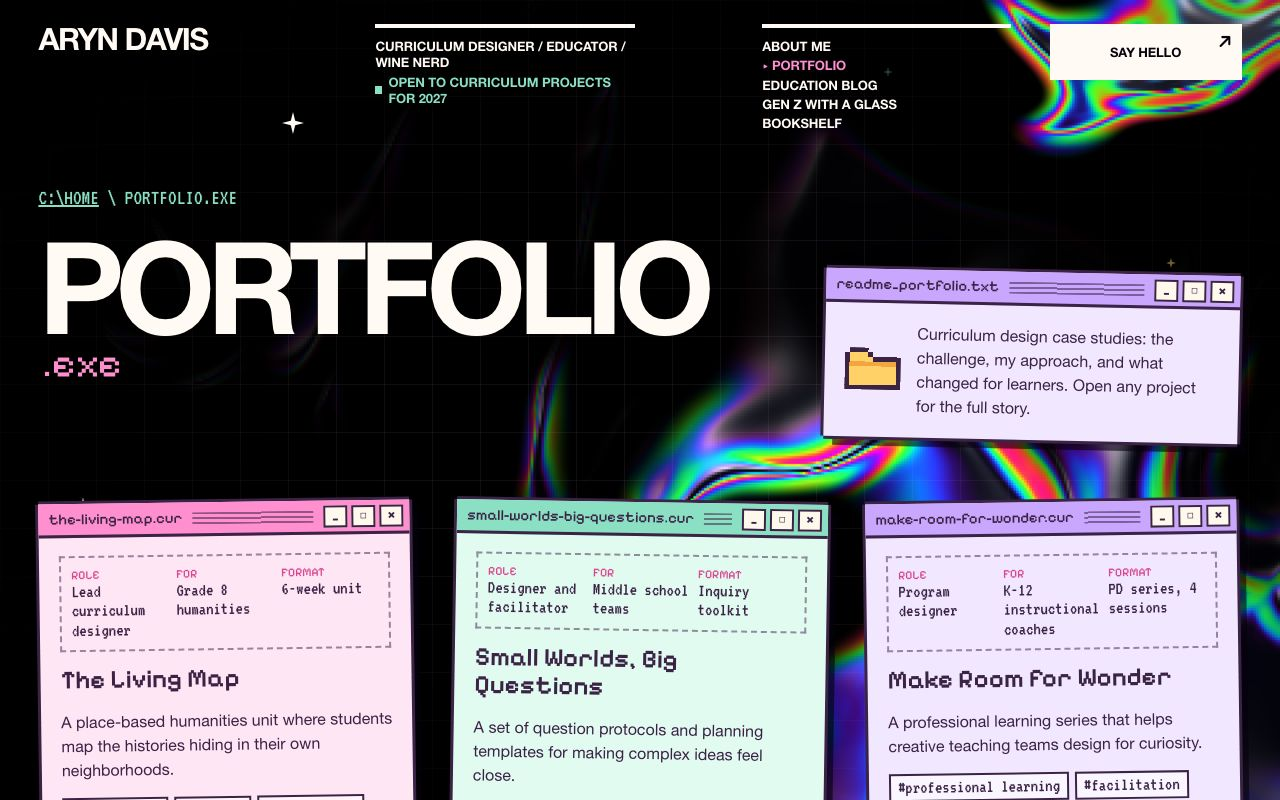
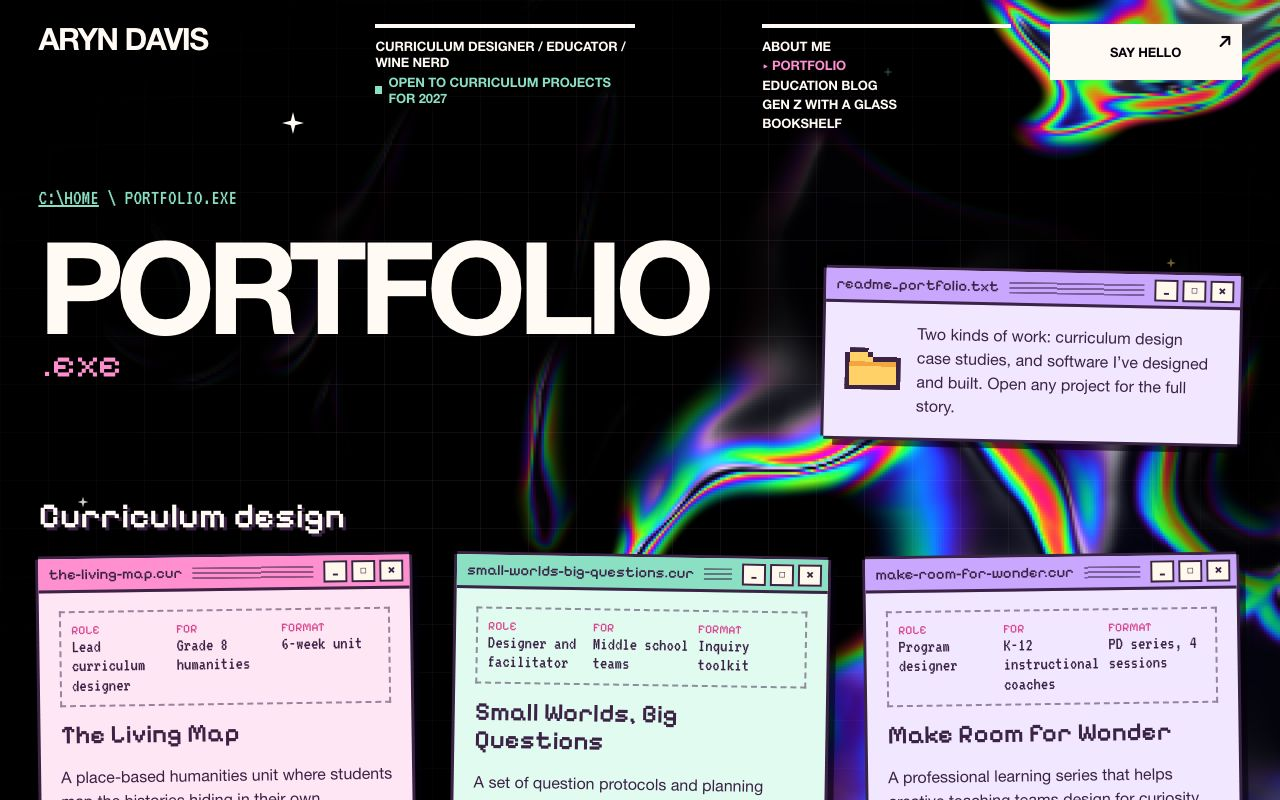
Split the portfolio into curriculum design and software engineering
- Projects get a track; the Portfolio page shows each under its own
  heading.
- Software engineering: Aryn's Library and Aryn's Closet, with
  screenshots on their cards, write-ups, and buttons for the live app
  and the code.
- Retake the home and portfolio README screenshots.

diff --git a/src/content/portfolio.ts b/src/content/portfolio.ts
@@ -1,9 +1,100 @@
 import type { Project } from './types'
 
-// Sample projects. Replace these with your own case studies.
+// Two tracks: 'curriculum' (case studies) and 'software' (apps I've built).
+// The curriculum projects are still samples. Replace them with your own case studies.
 export const projects: Project[] = [
   {
+    slug: 'aryns-library',
+    track: 'software',
+    title: 'Aryn’s Library',
+    date: '2026-10-20',
+    role: 'Design & engineering',
+    audience: 'My own bookshelf, public to browse',
+    format: 'React + Supabase web app',
+    summary: 'A pixel-art card catalog for my physical books, with lending, rubber-stamp check-outs, and a public read-only view.',
+    tags: ['React', 'TypeScript', 'Supabase', 'Postgres'],
+    cover: { src: 'images/portfolio/library-catalog.jpg', alt: 'Aryn’s Library card catalog: pixel book covers on a shelf with search and filters.' },
+    links: [
+      { label: 'Open the library ↗', href: 'https://library.arynlynn.com' },
+      { label: 'Code on GitHub ↗', href: 'https://github.com/aryndavis/bookshelf' },
+    ],
+    body: [
+      { type: 'h', text: 'What it is' },
+      {
+        type: 'p',
+        text: 'A cozy catalog of every book I own, which ones I’ve lent out, who has them, and for how long. Anyone can browse the shelves; only I can add books or lend them.',
+      },
+      { type: 'image', src: 'images/portfolio/library-checked-out.jpg', alt: 'A checked-out book with a CHECKED OUT rubber stamp and an old-school date-due card.' },
+      { type: 'h', text: 'Features' },
+      {
+        type: 'list',
+        items: [
+          'Card catalog with search, filters (on the shelf, checked out, overdue) and sorting',
+          'Add a book by ISBN: title, author and year fill in from Open Library',
+          'Lending with due dates: a rubber stamp animates onto the cover, and a pocket library card keeps the history',
+          '“Who has what” page grouping open loans by borrower, overdue first',
+          'CSV and JSON backups',
+        ],
+      },
+      { type: 'h', text: 'How it’s built' },
+      {
+        type: 'list',
+        items: [
+          'React 19, TypeScript and Vite, hosted on Netlify',
+          'Supabase (Postgres + auth) with Row Level Security on every table',
+          'Public view: visitors can read books and see that a book is out, but borrower names and contact details never leave the database',
+          'Strict Content Security Policy, no third-party scripts, and a demo mode that runs entirely in the browser',
+        ],
+      },
+    ],
+  },
+  {
+    slug: 'aryns-closet',
+    track: 'software',
+    title: 'Aryn’s Closet',
+    date: '2026-10-19',
+    role: 'Design & engineering',
+    audience: 'My own closet, public to browse',
+    format: 'React + Supabase web app with on-device ML',
+    summary: 'A Y2K scrapbook lookbook that cuts each piece of clothing out of an outfit photo, on the device, and catalogs it.',
+    tags: ['React', 'TypeScript', 'Computer vision', 'Supabase'],
+    cover: { src: 'images/portfolio/closet-lookbook.jpg', alt: 'Aryn’s Closet lookbook: an outfit polaroid taped into a pink scrapbook on a wooden desk.' },
+    links: [
+      { label: 'Open the closet ↗', href: 'https://closet.arynlynn.com' },
+      { label: 'Code on GitHub ↗', href: 'https://github.com/aryndavis/aryns-closet' },
+    ],
+    body: [
+      { type: 'h', text: 'What it is' },
+      {
+        type: 'p',
+        text: 'Upload an outfit photo and it becomes a page in a Bratz-meets-scrapbook lookbook. Every fully visible piece of clothing is cut out into a sticker and added to my closet, and an outfit roulette shuffles those pieces into new looks.',
+      },
+      { type: 'image', src: 'images/portfolio/closet-scanner.jpg', alt: 'The review step: the scanner found three pieces in an outfit photo, each cut out as a sticker to name and categorize.' },
+      { type: 'h', text: 'Features' },
+      {
+        type: 'list',
+        items: [
+          'Clothing scanner: finds tops, bottoms, dresses, shoes and accessories, cuts each out, and names its color',
+          'Pieces cut off at the edge of the photo get a friendly error instead of a bad sticker',
+          'Review before saving, including “this is already in my closet” to tag an existing piece',
+          'Closet board with wear counts, and an outfit roulette with lockable pieces',
+        ],
+      },
+      { type: 'h', text: 'How it’s built' },
+      {
+        type: 'list',
+        items: [
+          'Segmentation runs entirely in the browser: a SegFormer model through Transformers.js and ONNX Runtime (WebAssembly) in a Web Worker, so photos never go to an AI service',
+          'The model is pinned to an exact revision and checked against SHA-256 hashes, and served from the site itself',
+          'Supabase for data and a private photo bucket, with Row Level Security and short-lived signed photo links',
+          'React 19, TypeScript and Vite on Netlify, with a strict Content Security Policy',
+        ],
+      },
+    ],
+  },
+  {
     slug: 'the-living-map',
+    track: 'curriculum',
     title: 'The Living Map',
     date: '2026-08-20',
     role: 'Lead curriculum designer',
@@ -22,6 +113,7 @@ export const projects: Project[] = [
   },
   {
     slug: 'small-worlds-big-questions',
+    track: 'curriculum',
     title: 'Small Worlds, Big Questions',
     date: '2026-05-02',
     role: 'Designer and facilitator',
@@ -39,6 +131,7 @@ export const projects: Project[] = [
   },
   {
     slug: 'make-room-for-wonder',
+    track: 'curriculum',
     title: 'Make Room for Wonder',
     date: '2025-11-10',
     role: 'Program designer',

diff --git a/src/pages/Collection.tsx b/src/pages/Collection.tsx
@@ -21,9 +21,13 @@ interface CollectionProps<T extends Entry> {
   fileExtension: string
   cardExtra?: (entry: T) => ReactNode
   dialogMeta?: (entry: T) => ReactNode
+  /** Splits the 'windows' layout into titled sections. Entries in no group aren't shown on the board. */
+  groups?: { id: string; title: string; intro?: ReactNode; filter: (entry: T) => boolean }[]
+  /** The button text on a 'windows' card. */
+  openLabel?: (entry: T) => string
 }
 
-export default function Collection<T extends Entry>({ sectionKey, entries, slug, headline, intro, icon, layout, fileExtension, cardExtra, dialogMeta }: CollectionProps<T>) {
+export default function Collection<T extends Entry>({ sectionKey, entries, slug, headline, intro, icon, layout, fileExtension, cardExtra, dialogMeta, groups, openLabel = () => 'Open case study ▶' }: CollectionProps<T>) {
   const section = sections[sectionKey]
   const sorted = newestFirst(entries)
   const index = slug ? sorted.findIndex((entry) => entry.slug === slug) : -1
@@ -33,6 +37,34 @@ export default function Collection<T extends Entry>({ sectionKey, entries, slug,
   useFocusReturn(slug)
 
   const link = (entry: T) => href(`${section.path}/${entry.slug}`)
+
+  // Inside a titled group, card titles sit one level below the group title.
+  const CardHeading = groups ? 'h3' : 'h2'
+  const windowBoard = (list: T[]) => (
+    <ul className="window-board">
+      {list.map((entry, i) => (
+        <li key={entry.slug}>
+          <PixelWindow as="article" title={`${entry.slug}.${fileExtension}`} tone={noteTones[(i + 1) % noteTones.length]} labelledBy={`card-${entry.slug}`} className="card-window">
+            {cardExtra?.(entry)}
+            <CardHeading className="card-title" id={`card-${entry.slug}`}>
+              <a className="stretched" href={link(entry)} data-slug={entry.slug}>
+                {entry.title}
+              </a>
+            </CardHeading>
+            <p>{entry.summary}</p>
+            <ul className="tag-list" aria-label="Tags">
+              {entry.tags.map((tag) => (
+                <li key={tag}>#{tag}</li>
+              ))}
+            </ul>
+            <span className="pixel-button card-open" aria-hidden="true">
+              {openLabel(entry)}
+            </span>
+          </PixelWindow>
+        </li>
+      ))}
+    </ul>
+  )
 
   return (
     <div className={`collection collection-${sectionKey}`}>
@@ -84,30 +116,23 @@ export default function Collection<T extends Entry>({ sectionKey, entries, slug,
               </li>
             ))}
           </ul>
-        ) : (
-          <ul className="window-board">
-            {sorted.map((entry, i) => (
-              <li key={entry.slug}>
-                <PixelWindow as="article" title={`${entry.slug}.${fileExtension}`} tone={noteTones[(i + 1) % noteTones.length]} labelledBy={`card-${entry.slug}`} className="card-window">
-                  {cardExtra?.(entry)}
-                  <h2 className="card-title" id={`card-${entry.slug}`}>
-                    <a className="stretched" href={link(entry)} data-slug={entry.slug}>
-                      {entry.title}
-                    </a>
+        ) : groups ? (
+          groups.map((group) => {
+            const list = sorted.filter(group.filter)
+            return (
+              list.length > 0 && (
+                <section key={group.id} id={group.id} className="board-group" aria-labelledby={`${group.id}-title`}>
+                  <h2 id={`${group.id}-title`} className="board-group-title">
+                    {group.title}
                   </h2>
-                  <p>{entry.summary}</p>
-                  <ul className="tag-list" aria-label="Tags">
-                    {entry.tags.map((tag) => (
-                      <li key={tag}>#{tag}</li>
-                    ))}
-                  </ul>
-                  <span className="pixel-button card-open" aria-hidden="true">
-                    Open case study ▶
-                  </span>
-                </PixelWindow>
-              </li>
-            ))}
-          </ul>
+                  {group.intro}
+                  {windowBoard(list)}
+                </section>
+              )
+            )
+          })
+        ) : (
+          windowBoard(sorted)
         )}
       </section>
 

diff --git a/src/pages/Sections.tsx b/src/pages/Sections.tsx
@@ -4,6 +4,28 @@ import type { Project } from '../content/types'
 import { site } from '../site'
 import Collection from './Collection'
 
+const isWebLink = (url: string) => /^https?:\/\//i.test(url)
+
+/** Screenshot on a software project's card. Decorative there: the card's title and summary say what it is. */
+function ProjectCover({ project }: { project: Project }) {
+  if (!project.cover) return null
+  return <img className="card-cover" src={`${import.meta.env.BASE_URL}${project.cover.src}`} alt="" loading="lazy" />
+}
+
+function ProjectLinks({ project }: { project: Project }) {
+  const links = (project.links ?? []).filter((link) => isWebLink(link.href))
+  if (!links.length) return null
+  return (
+    <p className="project-links">
+      {links.map((link) => (
+        <a key={link.href} className="pixel-button" href={link.href} target="_blank" rel="noopener noreferrer">
+          {link.label}
+        </a>
+      ))}
+    </p>
+  )
+}
+
 function ProjectFacts({ project }: { project: Project }) {
   return (
     <dl className="facts">
@@ -38,13 +60,24 @@ export function PortfolioPage({ slug }: { slug?: string }) {
           <span className="mega-ext">.exe</span>
         </>
       }
-      intro={
-        <p>
-          Curriculum design case studies: the challenge, my approach, and what changed for learners. Open any project for the full story.
-        </p>
-      }
-      cardExtra={(project) => <ProjectFacts project={project} />}
-      dialogMeta={(project) => <ProjectFacts project={project} />}
+      intro={<p>Two kinds of work: curriculum design case studies, and software I’ve designed and built. Open any project for the full story.</p>}
+      groups={[
+        { id: 'curriculum-design', title: 'Curriculum design', filter: (project) => project.track === 'curriculum' },
+        { id: 'software-engineering', title: 'Software engineering', filter: (project) => project.track === 'software' },
+      ]}
+      openLabel={(project) => (project.track === 'software' ? 'Open project ▶' : 'Open case study ▶')}
+      cardExtra={(project) => (
+        <>
+          <ProjectCover project={project} />
+          <ProjectFacts project={project} />
+        </>
+      )}
+      dialogMeta={(project) => (
+        <>
+          <ProjectFacts project={project} />
+          <ProjectLinks project={project} />
+        </>
+      )}
     />
   )
 }

diff --git a/src/content/types.ts b/src/content/types.ts
@@ -25,10 +25,18 @@ export interface Entry {
   substackUrl?: string
 }
 
+export type Track = 'curriculum' | 'software'
+
 export interface Project extends Entry {
+  /** Which half of the portfolio it belongs to. */
+  track: Track
   role: string
   audience: string
   format: string
+  /** A screenshot or image on the project's card. src is a file in public/. */
+  cover?: { src: string; alt: string }
+  /** Buttons in the project's pop-up, e.g. the live site and the code. Only http(s) links are shown. */
+  links?: { label: string; href: string }[]
 }
 
 export type WineStyle = 'red' | 'white' | 'rosé' | 'orange' | 'sparkling' | 'dessert'

diff --git a/src/styles.css b/src/styles.css
@@ -1893,3 +1893,33 @@ a.pixel-button.substack-link:hover {
     transition: none;
   }
 }
+
+/* ---------- Portfolio groups ---------- */
+
+.board-group + .board-group {
+  margin-top: 72px;
+}
+
+.board-group-title {
+  margin: 0 0 20px;
+  font: 600 clamp(1.6rem, 4vw, 2.2rem)/1 var(--pixel);
+  color: var(--white);
+  text-shadow: 3px 3px 0 var(--ink);
+}
+
+.card-cover {
+  display: block;
+  width: 100%;
+  aspect-ratio: 16 / 10;
+  margin-bottom: 14px;
+  object-fit: cover;
+  object-position: top;
+  border: 3px solid var(--ink);
+}
+
+.project-links {
+  display: flex;
+  flex-wrap: wrap;
+  gap: 10px;
+  margin: 4px 0 14px;
+}

diff --git a/README.md b/README.md
@@ -2,7 +2,7 @@
 
 Live at **[arynlynn.com](https://arynlynn.com)**. The apps live on subdomains: [library.arynlynn.com](https://library.arynlynn.com) (bookshelf) and [closet.arynlynn.com](https://closet.arynlynn.com) (Aryn’s Closet).
 
-Aryn Davis's personal site: an about-me home page, a curriculum design portfolio, an education blog, and a wine blog. It has a Y2K desktop look: a liquid-chrome holographic background with pixel pop-up windows and post-it notes. Built with React, TypeScript, and Vite.
+Aryn Davis's personal site: an about-me home page, a portfolio (curriculum design and software engineering), an education blog, and a wine blog. It has a Y2K desktop look: a liquid-chrome holographic background with pixel pop-up windows and post-it notes. Built with React, TypeScript, and Vite.
 
 ## Screenshots
 
@@ -33,7 +33,7 @@ npm test          # content, Substack-sync and text-posting tests
 | URL | Page | Content file |
 | --- | --- | --- |
 | `#/` | About me (home) | `src/pages/Home.tsx` |
-| `#/portfolio` | Curriculum portfolio | `src/content/portfolio.ts` |
+| `#/portfolio` | Portfolio: curriculum design and software engineering | `src/content/portfolio.ts` |
 | `#/education` | Education blog | `src/content/education.ts` |
 | `#/wine` | Gen Z With A Glass (wine blog) | `src/content/wine.ts` |
 | `#/bookshelf` | Bookshelf (reading list) | `src/content/books.ts` |
@@ -44,6 +44,7 @@ Every project and post has its own link (for example `#/wine/weeknight-white-und
 
 - **Name, email, tagline:** `src/site.ts`
 - **About me text:** `src/pages/Home.tsx`
+- **Portfolio projects** (`src/content/portfolio.ts`) have a `track`: `'curriculum'` or `'software'`. Each shows under its own heading on the Portfolio page. Software projects can add a `cover` screenshot for the card and `links` (live site, code) as buttons in the pop-up. Put images in `public/images/portfolio/`.
 - **Projects and posts:** add an object to the array in the matching `src/content/*.ts` file. Bodies are lists of blocks (`p`, `h`, `list`, `quote`); see `src/content/types.ts`. Content is rendered as text, never as raw HTML.
 - **Books:** add or move books in `src/content/books.ts`. Set `status` to `'reading'` (shown face-out and on the home page's currently.txt), `'read'` or `'want'`, and pick a spine `color`. `rating` and `note` are optional.
 - **Wine posts (Gen Z With A Glass)** come in two kinds, both in `src/content/wine.ts`:
